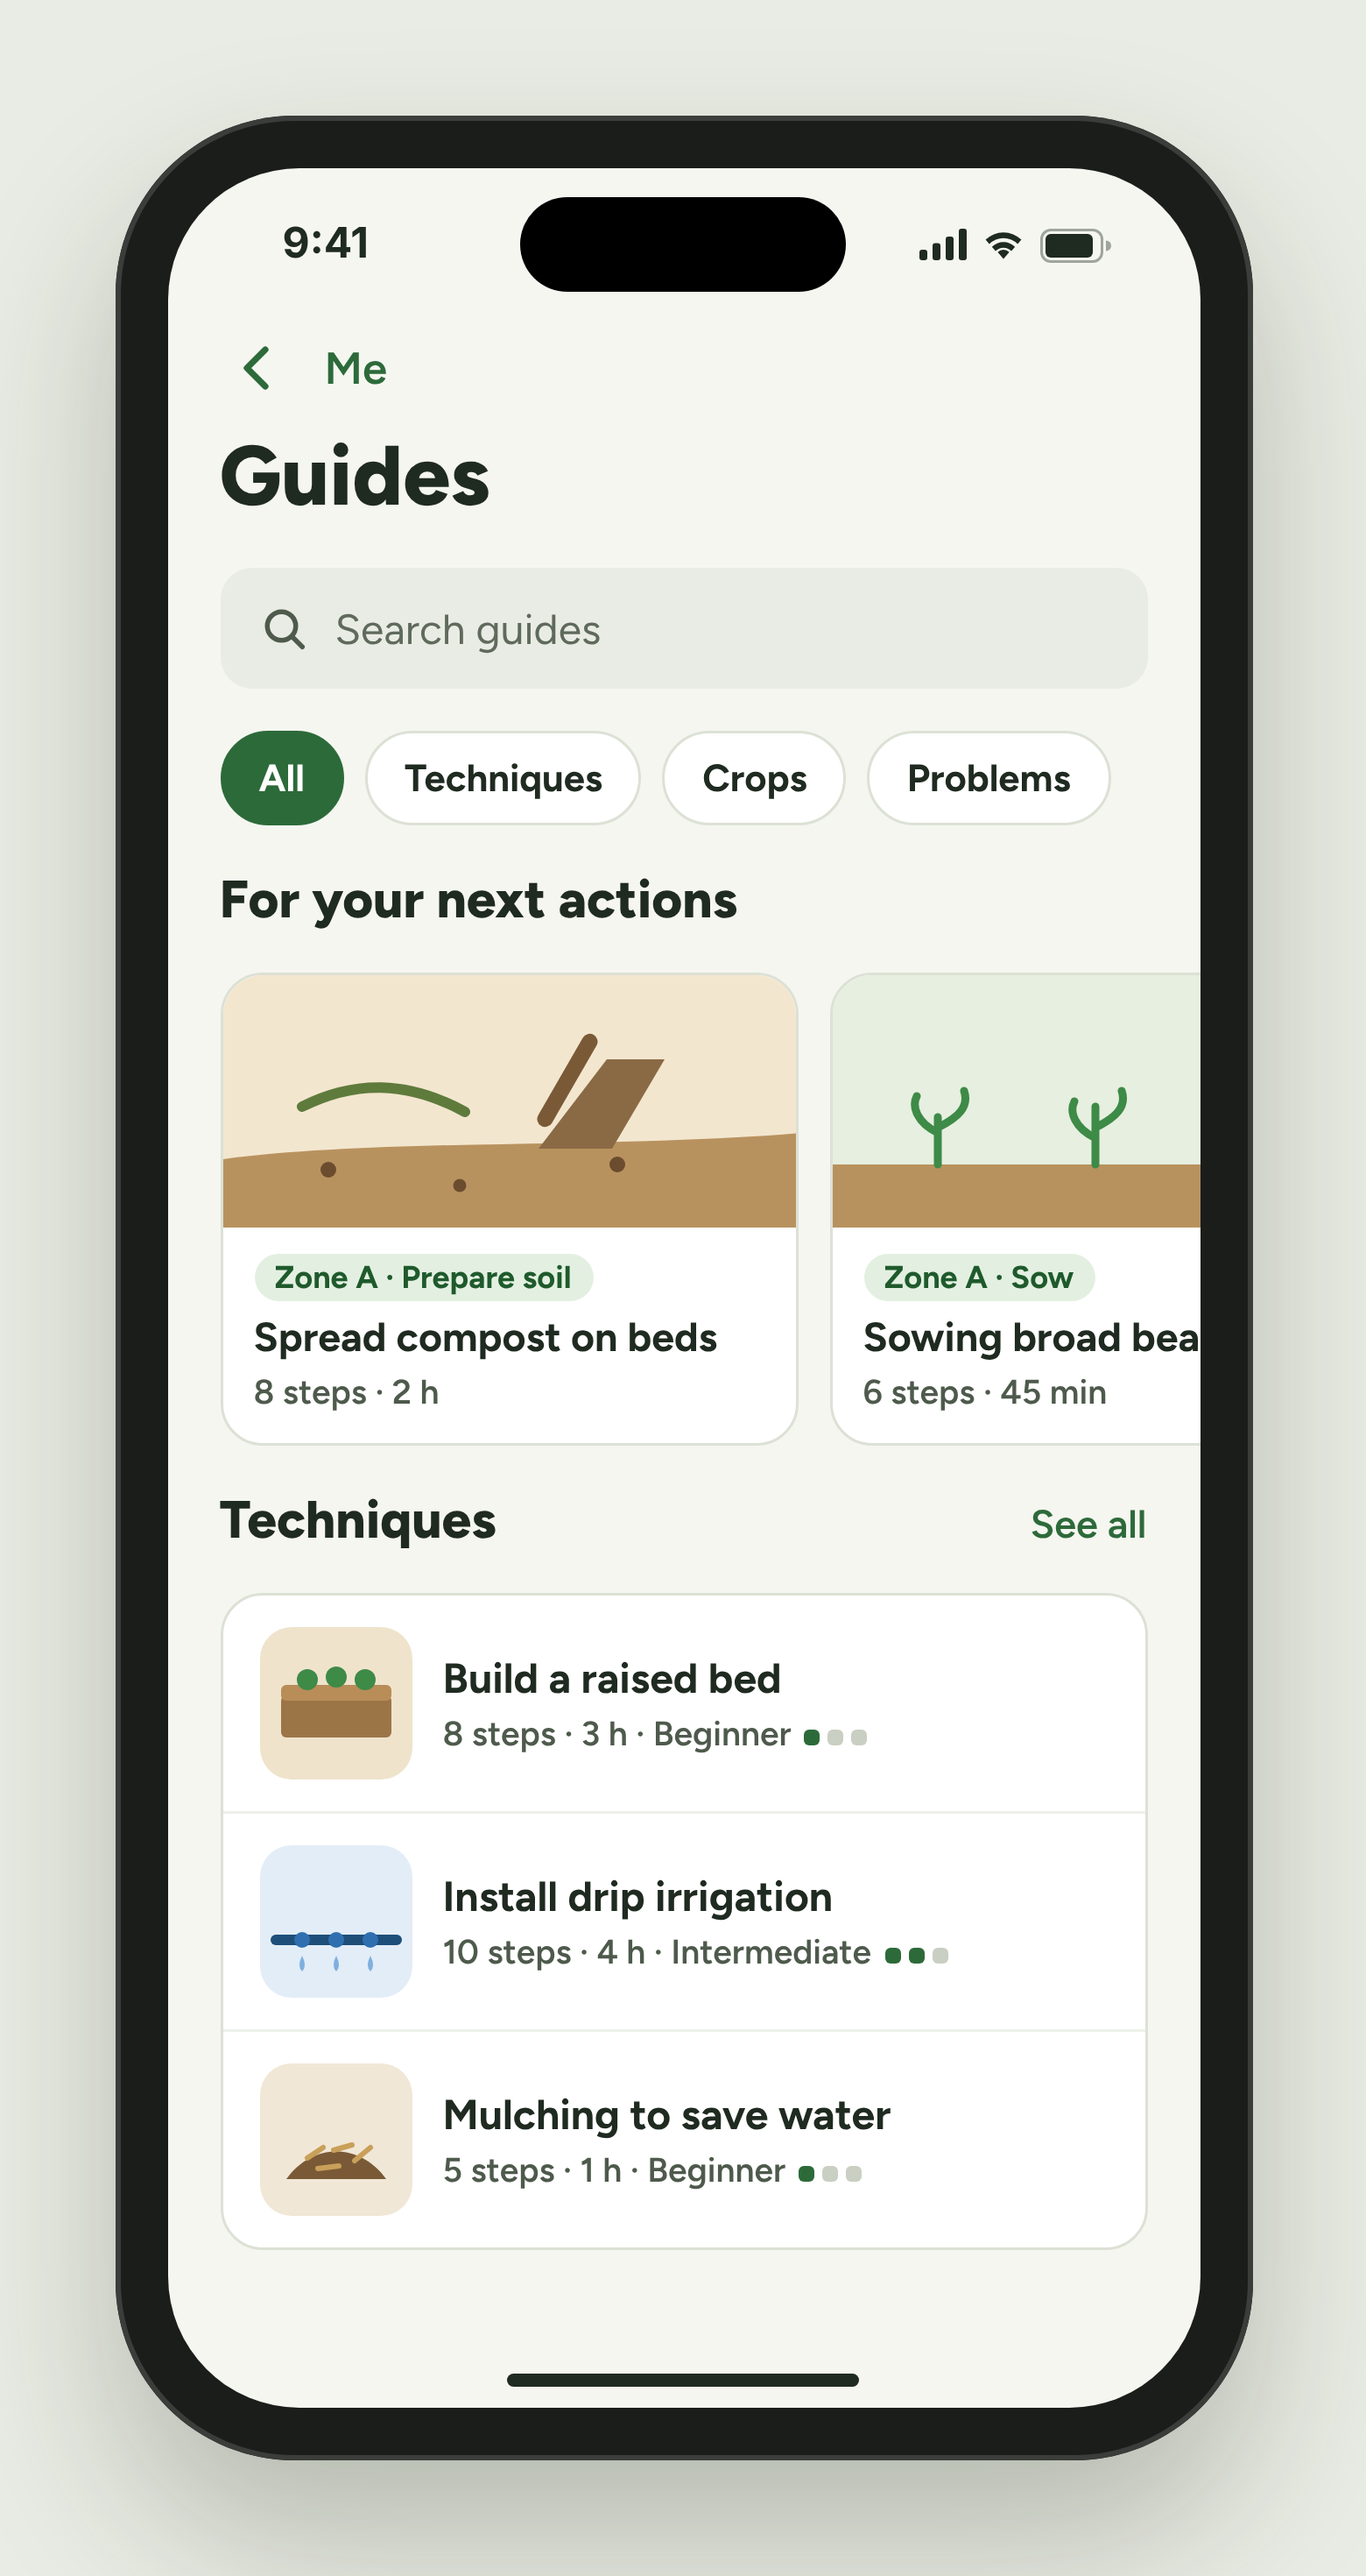
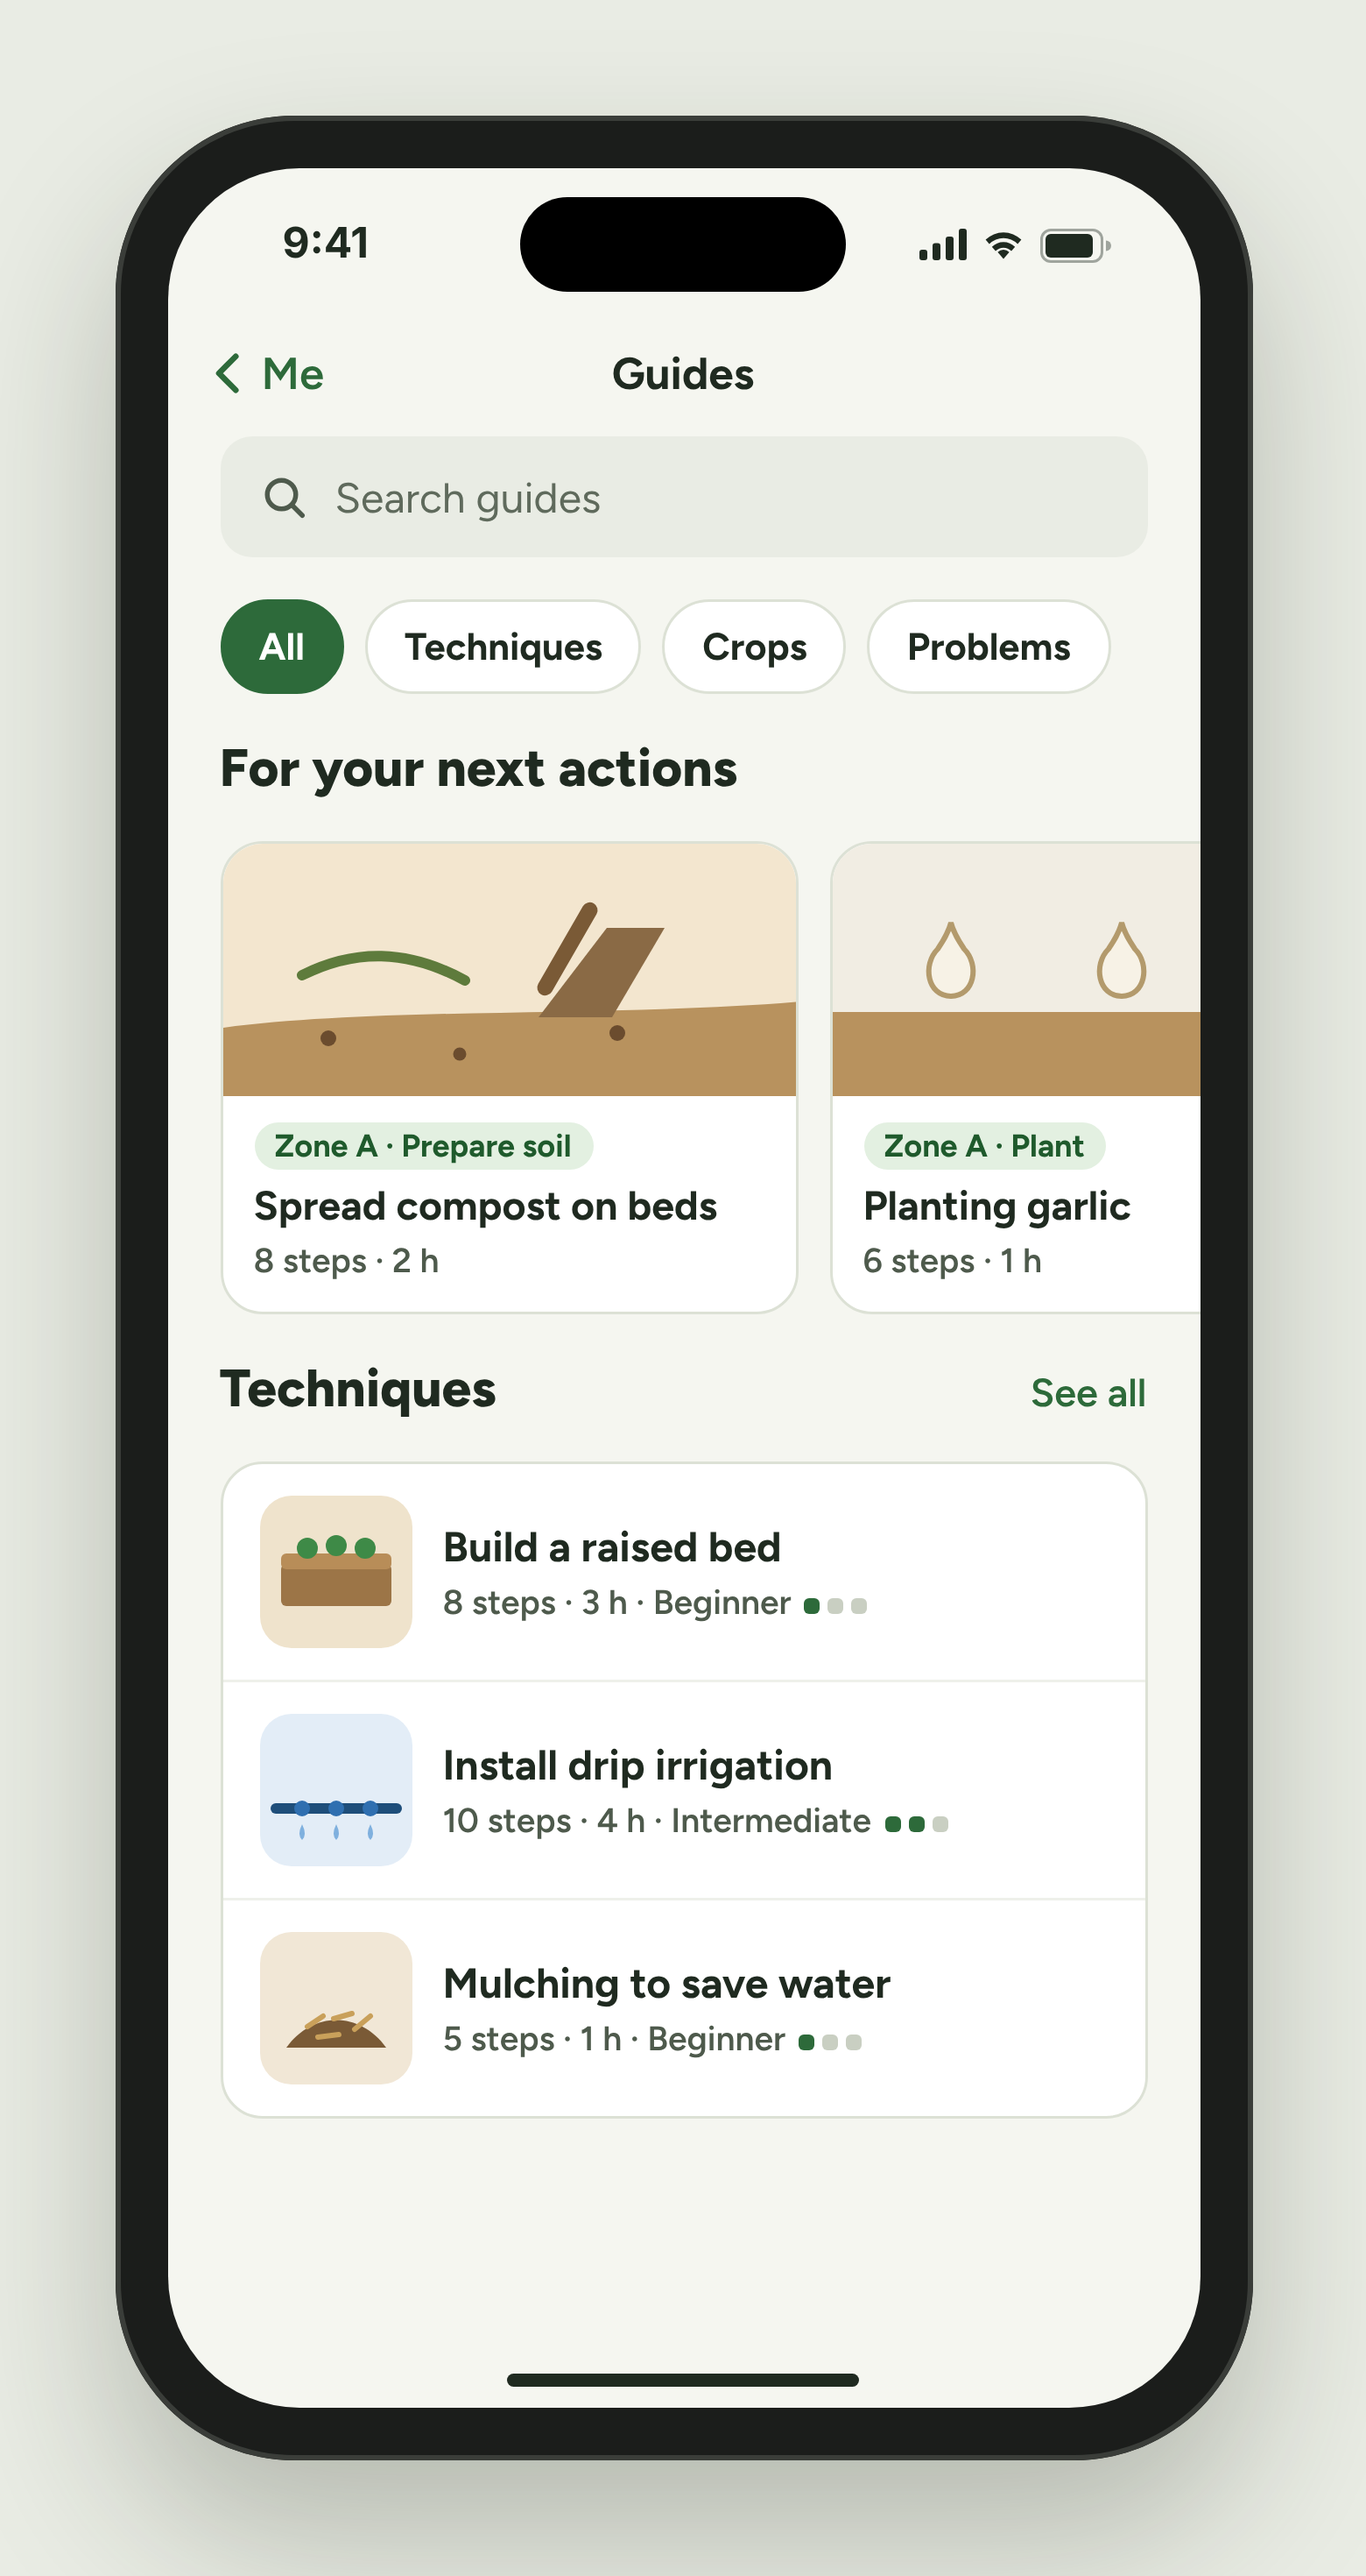
Design G2 guide library: drill-down nav (Me back label, small title), garlic planting as next-action guide
Claude-Session: https://claude.ai/code/session_015NynAjU4naPZwzmeuGazot

Changed region(s): [[0.1538, 0.1238, 0.8923, 0.8667], [0.7692, 0.5881, 0.8615, 0.619], [0.4615, 0.1238, 0.5538, 0.1548]]

diff --git a/design/source/G2-guide-library.html b/design/source/G2-guide-library.html
@@ -46,12 +46,11 @@
       <svg width="27" height="13" viewBox="0 0 27 13"><rect x="0.5" y="0.5" width="23" height="12" rx="3.5" fill="none" stroke="#1F2A20" opacity=".4"/><rect x="2" y="2" width="18" height="9" rx="2" fill="#1F2A20"/><path d="M25 4.5v4a2 2 0 0 0 0-4z" fill="#1F2A20" opacity=".4"/></svg>
     </span>
   </div>
-  <div class="nav">
-    <div class="back"><svg width="24" height="24" viewBox="0 0 24 24" fill="none" stroke="#2D6A3A" stroke-width="2.4" stroke-linecap="round" stroke-linejoin="round"><path d="M15 5l-7 7 7 7"/></svg></div>
-    <span style="font-size: 17px; color: var(--green); font-weight: 600">Me</span>
+  <div class="nav" style="position: relative; display: flex; align-items: center; height: 48px; padding: 0 12px">
+    <div style="display: flex; align-items: center; gap: 2px; color: var(--green); font-size: 17px; font-weight: 600; height: 44px"><svg width="22" height="22" viewBox="0 0 24 24" fill="none" stroke="#2D6A3A" stroke-width="2.4" stroke-linecap="round" stroke-linejoin="round"><path d="M15 5l-7 7 7 7"/></svg>Me</div>
+    <span style="position: absolute; left: 50%; transform: translateX(-50%); font-size: 17px; font-weight: 700">Guides</span>
   </div>
   <div class="body">
-    <h1>Guides</h1>
     <div class="search">
       <svg width="20" height="20" viewBox="0 0 24 24" fill="none" stroke="#4E5A4C" stroke-width="2.2" stroke-linecap="round"><circle cx="11" cy="11" r="6.5"/><path d="M16 16l4.5 4.5"/></svg>
       Search guides
@@ -65,8 +64,8 @@
         <div class="txt"><span class="tag">Zone A · Prepare soil</span><b>Spread compost on beds</b><span class="meta">8 steps · 2 h</span></div>
       </div>
       <div class="feat">
-        <div class="img"><svg width="220" height="96" viewBox="0 0 220 96"><rect width="220" height="96" fill="#E6EFE0"/><path d="M0 72 H220 V96 H0z" fill="#B8925E"/><g stroke="#3E8A47" stroke-width="3" stroke-linecap="round" fill="none"><path d="M40 72 v-18 M40 60 c-8-4-10-10-8-14 M40 58 c8-4 12-8 10-14"/><path d="M100 72 v-22 M100 62 c-8-4-10-10-8-14 M100 58 c8-4 12-8 10-14"/><path d="M160 72 v-16 M160 62 c-8-4-10-10-8-12 M160 60 c8-4 12-8 10-12"/></g></svg></div>
-        <div class="txt"><span class="tag">Zone A · Sow</span><b>Sowing broad beans</b><span class="meta">6 steps · 45 min</span></div>
+        <div class="img"><svg width="220" height="96" viewBox="0 0 220 96"><rect width="220" height="96" fill="#F1EDE3"/><path d="M0 64 H220 V96 H0z" fill="#B8925E"/><g transform="translate(45 58)"><path d="M0 0 c-9 0-11-12-5-18 c2-3 4-6 5-10 c1 4 3 7 5 10 c6 6 4 18-5 18z" fill="#F7F2E6" stroke="#B39A6C" stroke-width="2"/></g><g transform="translate(110 58)"><path d="M0 0 c-9 0-11-12-5-18 c2-3 4-6 5-10 c1 4 3 7 5 10 c6 6 4 18-5 18z" fill="#F7F2E6" stroke="#B39A6C" stroke-width="2"/></g><g transform="translate(175 58)"><path d="M0 0 c-9 0-11-12-5-18 c2-3 4-6 5-10 c1 4 3 7 5 10 c6 6 4 18-5 18z" fill="#F7F2E6" stroke="#B39A6C" stroke-width="2"/></g></svg></div>
+        <div class="txt"><span class="tag">Zone A · Plant</span><b>Planting garlic</b><span class="meta">6 steps · 1 h</span></div>
       </div>
     </div>
 
